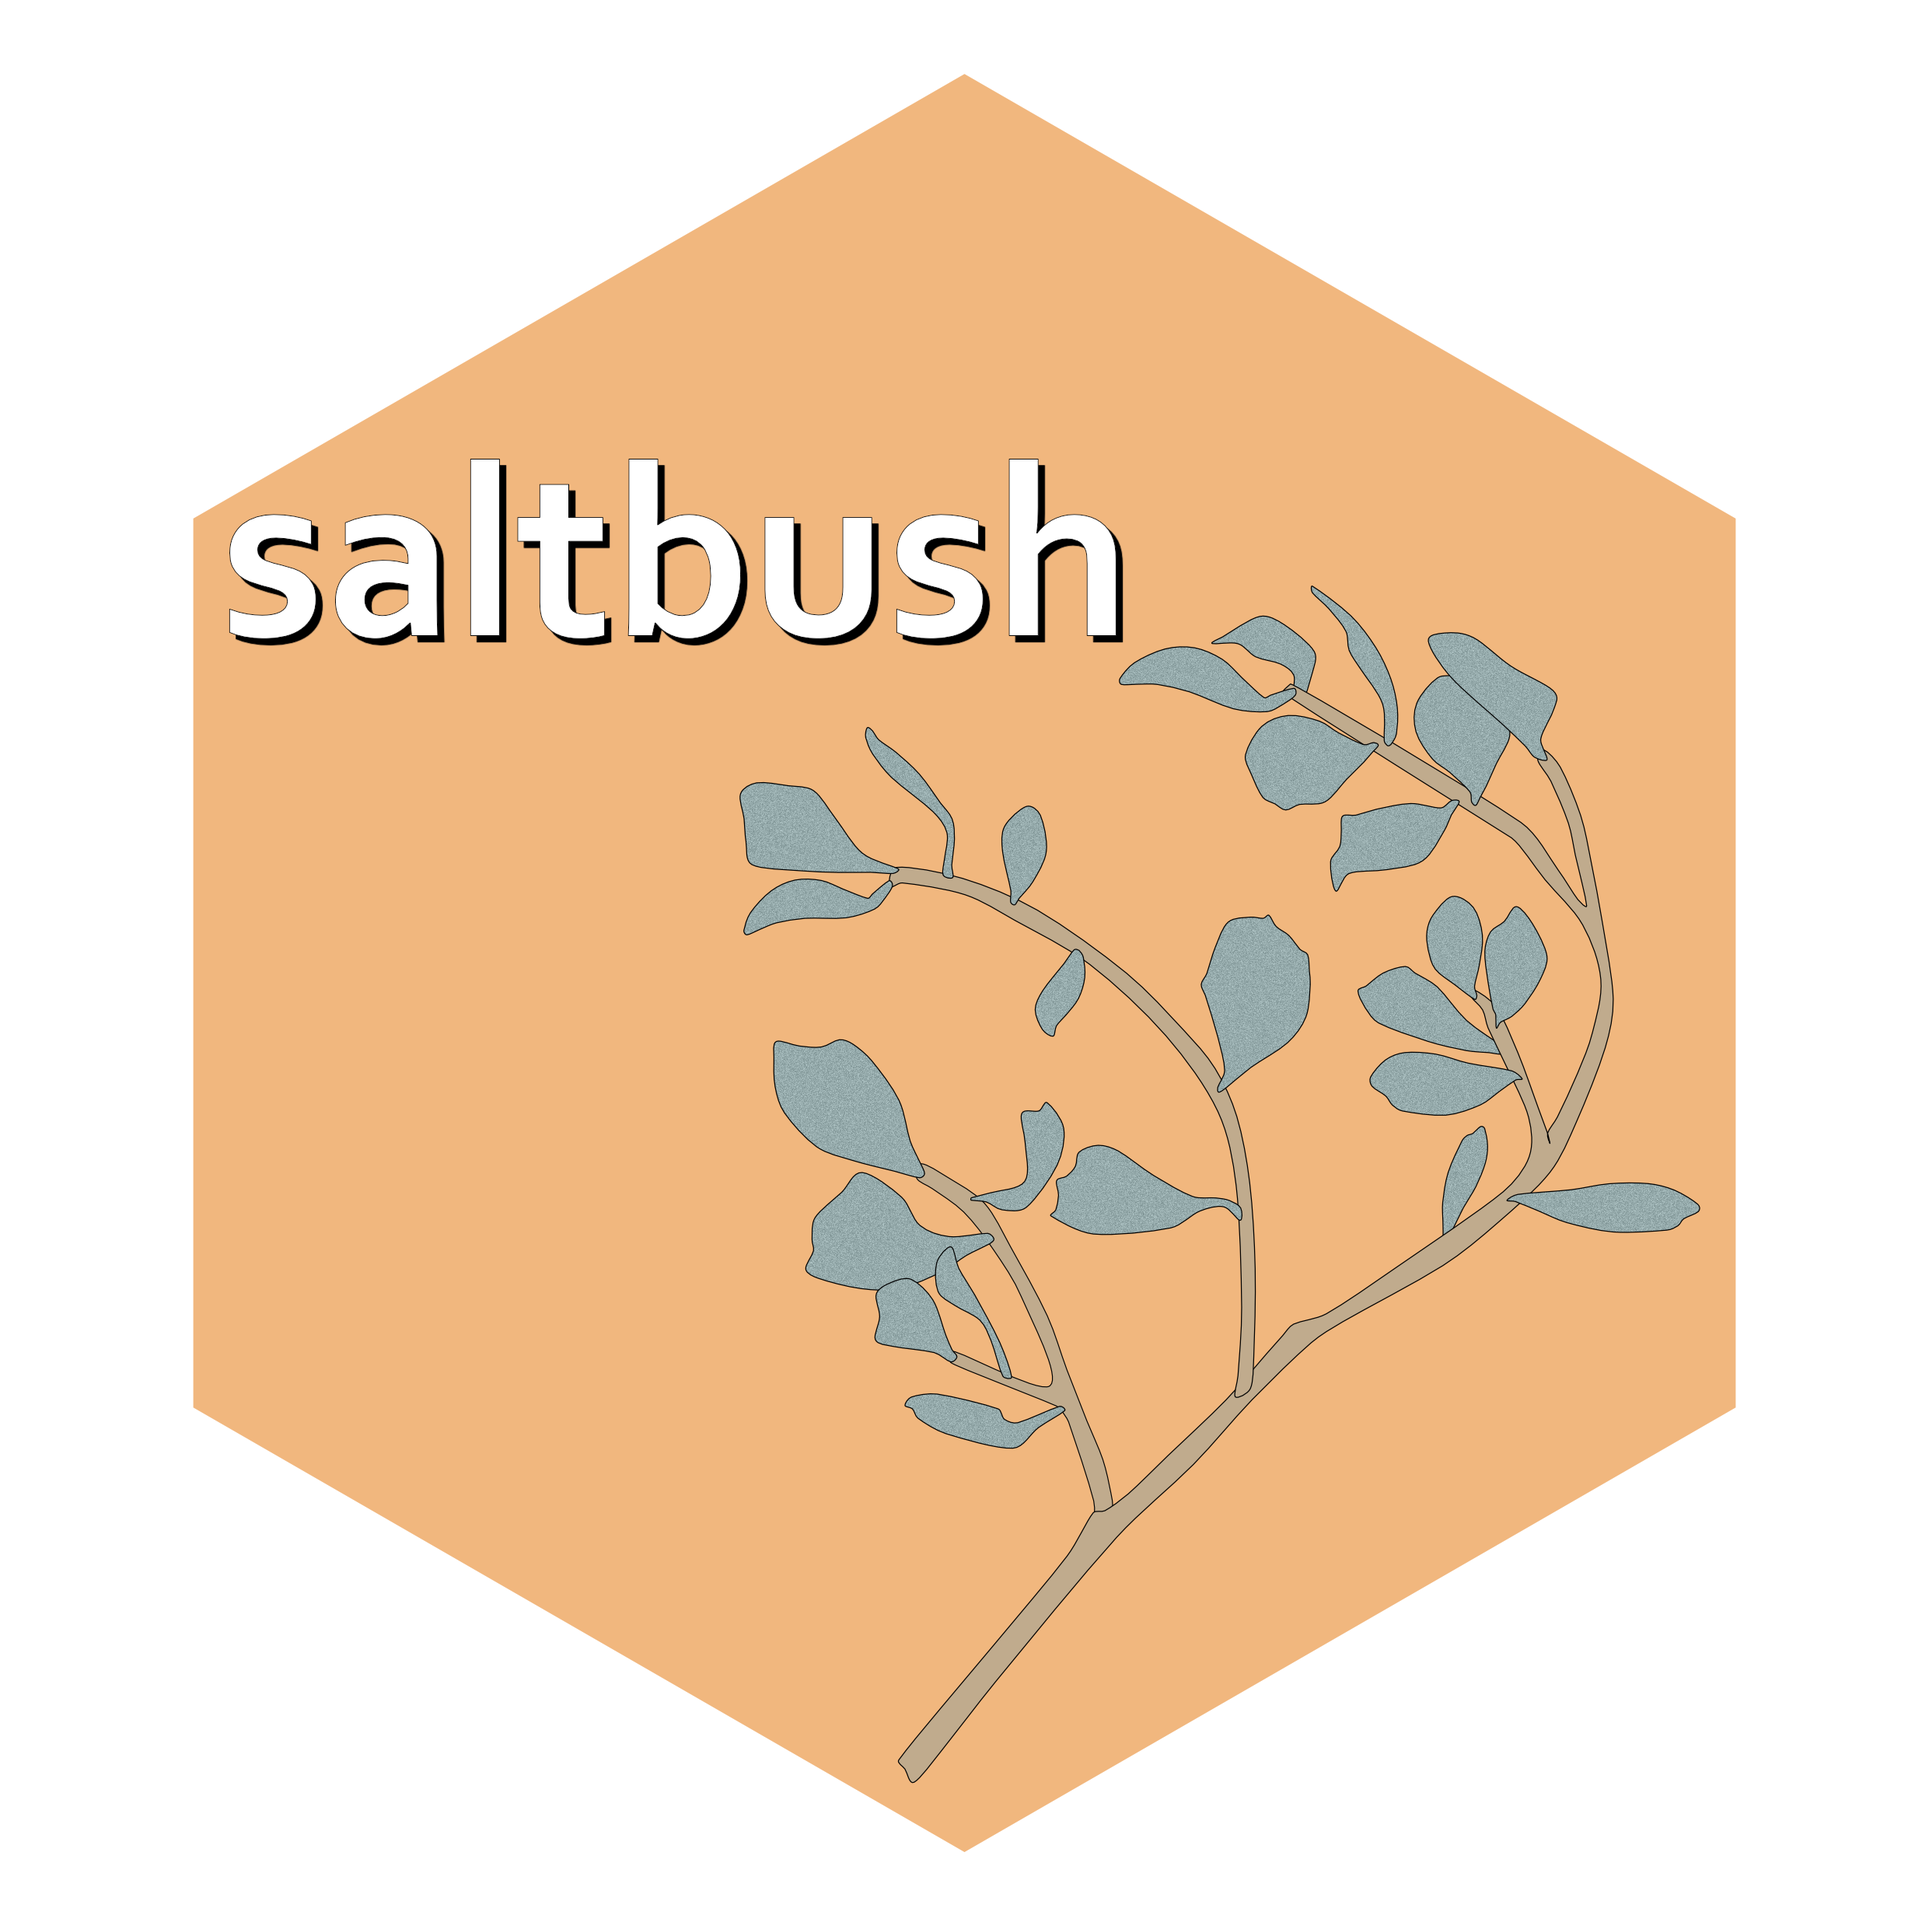
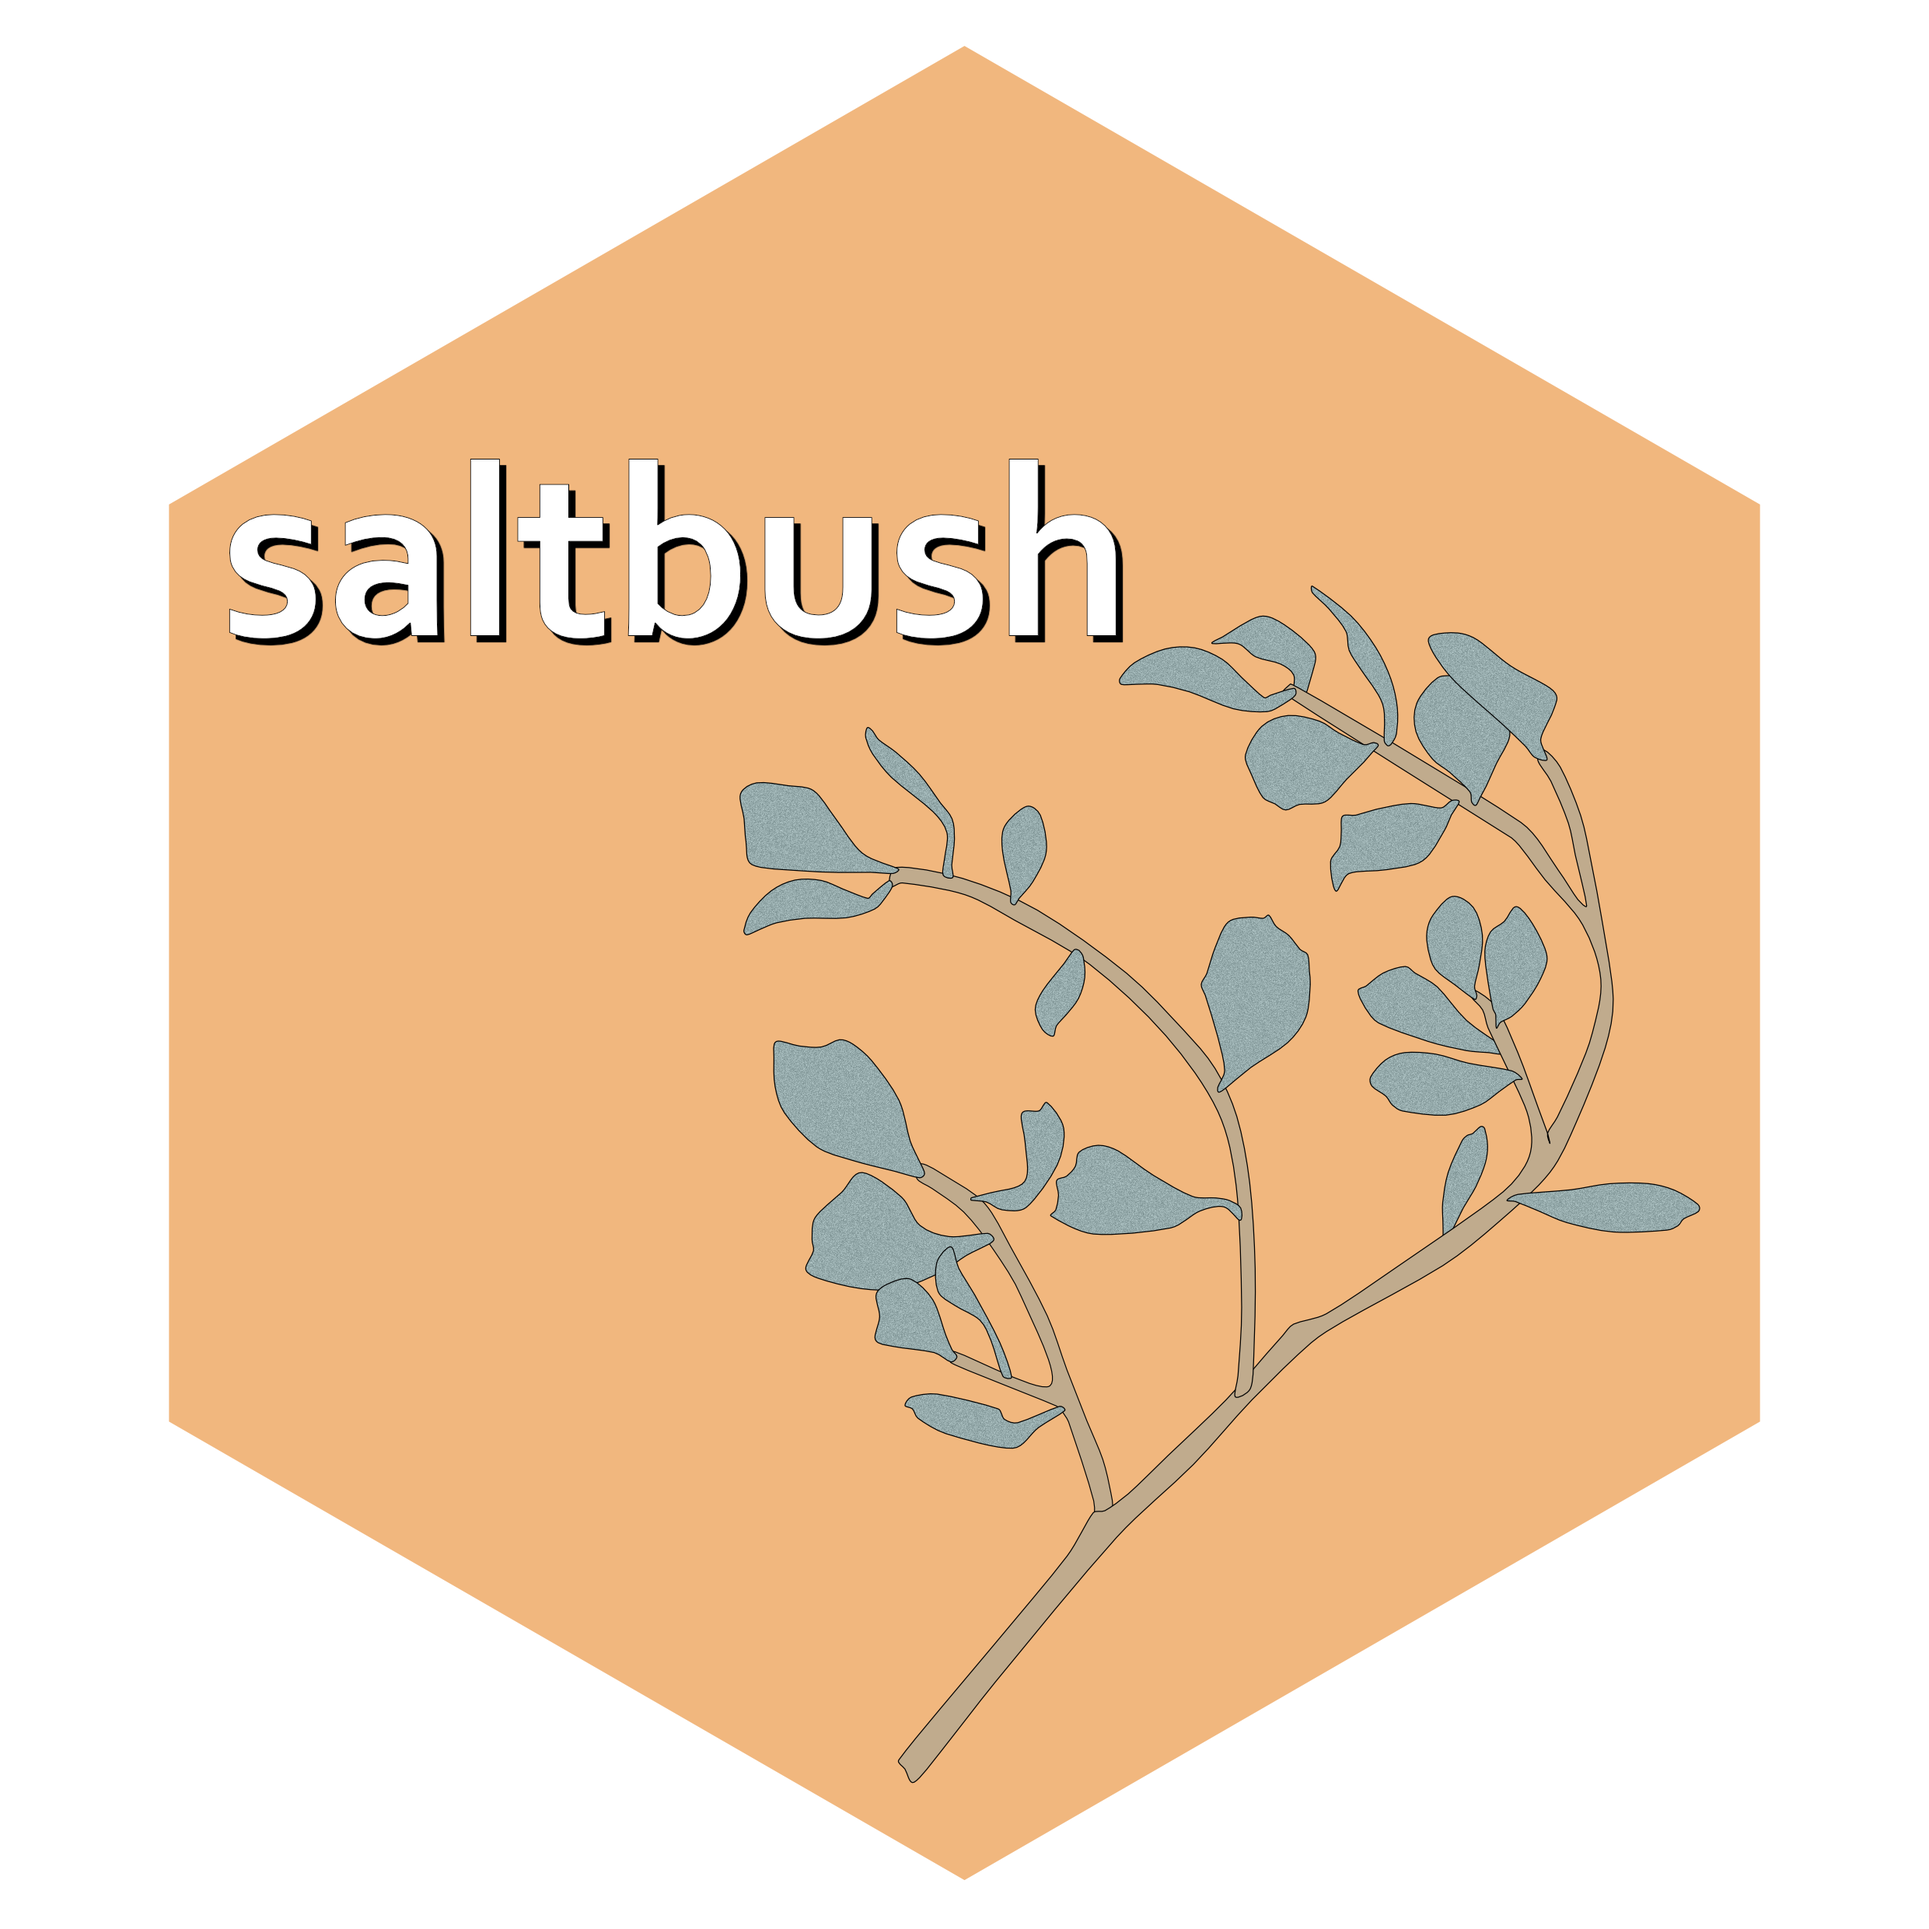
slightly diff hex sticker

diff --git a/README.md b/README.md
@@ -8,7 +8,7 @@
 coverage](https://codecov.io/gh/traitecoevo/saltbush/graph/badge.svg)](https://app.codecov.io/gh/traitecoevo/saltbush)
 <!-- badges: end -->
 
-# saltbush <img src="man/figures/saltbush_hex.png" align="right" width="200"/>
+# saltbush <img src="man/figures/saltbush_hex.png" align="right" width="220"/>
 
 *saltbush* processes drone imagery and ausplot vegetation survey data to
 calculate spectral + taxonomic diversity values for assessment of the
@@ -62,16 +62,21 @@ my.data <- ausplotsR::get_ausplots(my.Plot_IDs=c("SATFLB0004", "QDAMGD0022", "NT
 field_diversity <- calculate_field_diversity(my.data)
 field_diversity
 #> $field_diversity
-#>   species_richness shannon_diversity simpson_diversity
-#> 1               28          2.379688         0.8649789
-#> 2               22          2.200076         0.8509874
-#> 3               20          2.179534         0.8242833
-#> 4               18          2.149992         0.8375000
-#>   pielou_evenness exp_shannon inv_simpson             site
-#> 1       0.7141483   10.801533    7.406252 SATFLB0004-58658
-#> 2       0.7117585    9.025696    6.710843 NTASTU0002-58429
-#> 3       0.7275464    8.842187    5.690977 QDAMGD0022-53501
-#> 4       0.7438460    8.584786    6.153846 SATFLB0004-53705
+#>               site species_richness shannon_diversity
+#> 1 SATFLB0004-58658               28          2.379688
+#> 2 NTASTU0002-58429               22          2.200076
+#> 3 QDAMGD0022-53501               20          2.179534
+#> 4 SATFLB0004-53705               18          2.149992
+#>   simpson_diversity pielou_evenness exp_shannon inv_simpson
+#> 1         0.8649789       0.7141483   10.801533    7.406252
+#> 2         0.8509874       0.7117585    9.025696    6.710843
+#> 3         0.8242833       0.7275464    8.842187    5.690977
+#> 4         0.8375000       0.7438460    8.584786    6.153846
+#>             survey
+#> 1 SATFLB0004-58658
+#> 2 NTASTU0002-58429
+#> 3 QDAMGD0022-53501
+#> 4 SATFLB0004-53705
 #> 
 #> $community_matrices
 #> $community_matrices$`SATFLB0004-58658`
